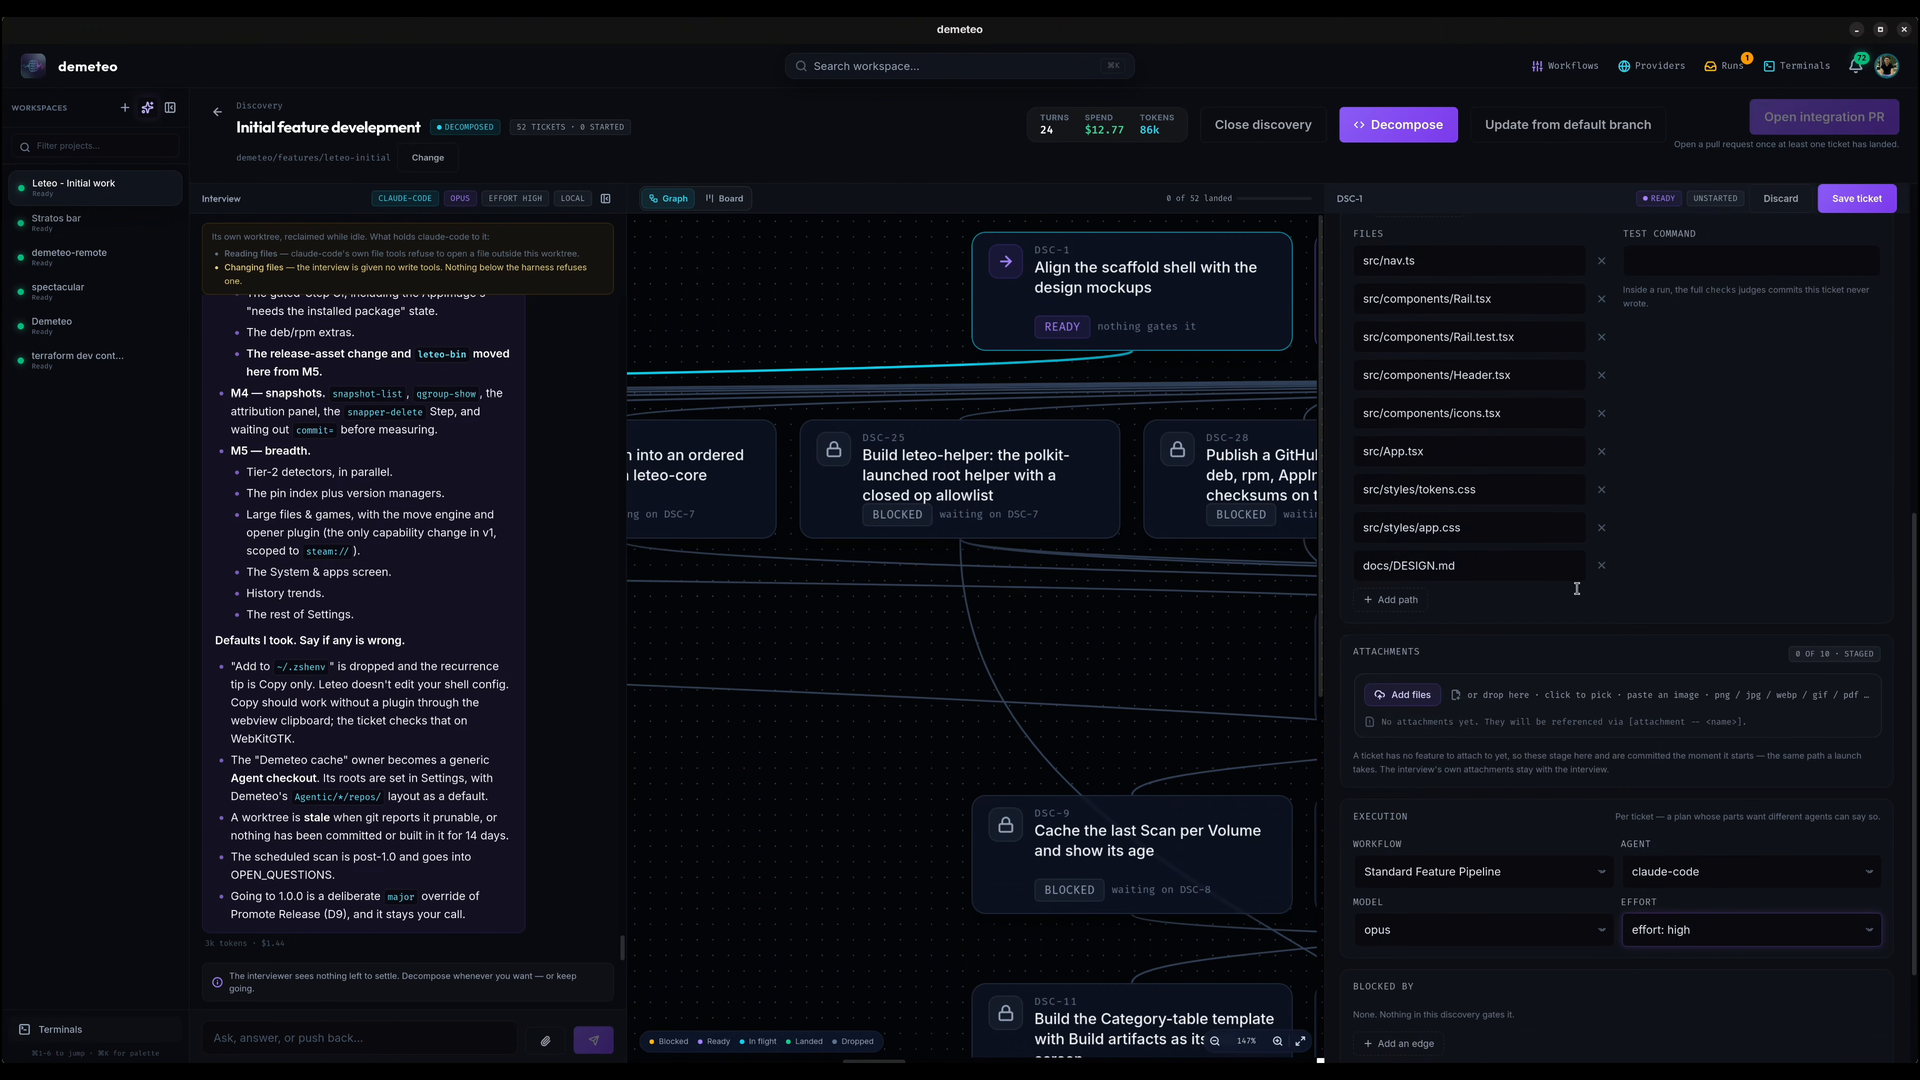
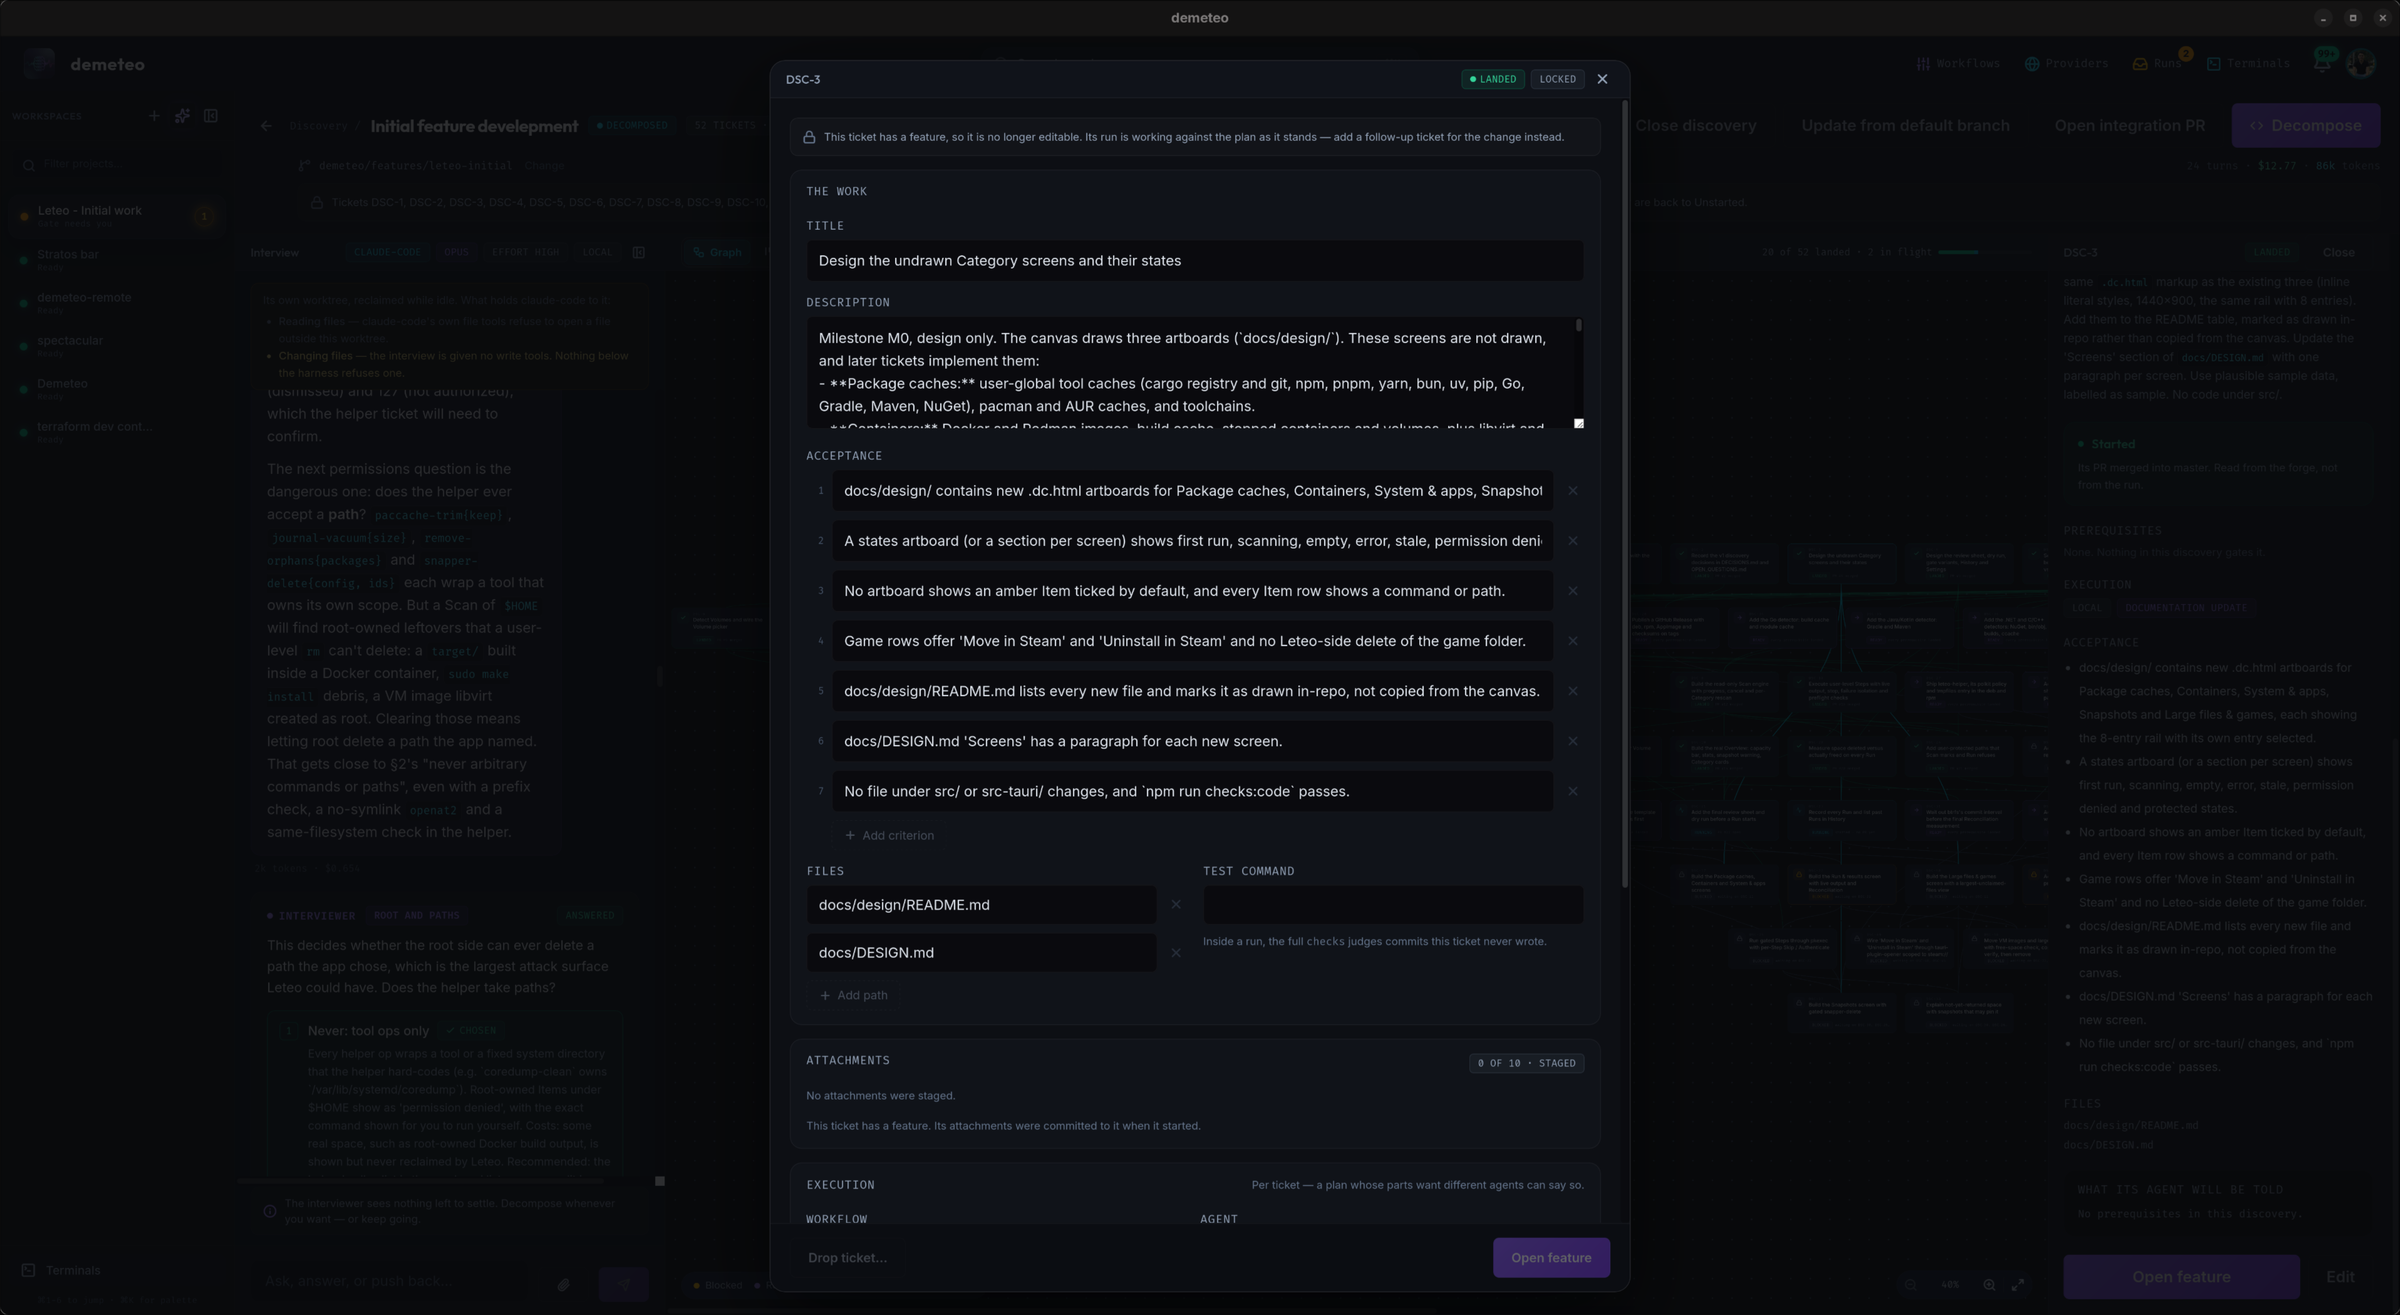
docs: show the ticket editor as the modal it now is
The old frame showed the editor as a side pane, which #218 replaced with
a modal. Use a native capture and describe what a ticket carries and
when it locks, next to the text about editing tickets.

diff --git a/docs-site/journeys/run-a-discovery.md b/docs-site/journeys/run-a-discovery.md
@@ -42,7 +42,7 @@ A Discovery stays open after decomposing. **Decompose again** proposes changes o
 
 ## 4. The ticket graph
 
-![Ticket graph with ready and blocked tickets, and the ticket editor open on a ticket's files, attachments and execution settings](../assets/screenshots/ticket-editor.png)
+![A decomposed Discovery mid-run (20 of 52 landed, 2 in flight), with a ready ticket's detail and its Start ticket button open on the right](../assets/screenshots/discovery-ticket-graph.png)
 
 Tickets appear as a **Graph** (what depends on what) or a **Board** with one lane per state:
 
@@ -58,6 +58,8 @@ A prerequisite counts as satisfied when its feature's PR is **merged or closed**
 
 Select a ticket to inspect it — description, prerequisites, workflow, acceptance criteria, and **what its agent will be told** — and **Edit** it. Until it starts, every field is editable: title, description, acceptance, files, test command, prerequisite edges, attachments for the agent that implements it, and its execution settings (**workflow, agent, model, effort**, and the machine it runs on). A ticket locks once it has a feature.
 
+![Ticket editor modal on a landed ticket, locked because it has a feature: title, description, acceptance criteria, files, test command and attachments](../assets/screenshots/ticket-editor.png)
+
 ## 5. Start ready tickets
 
 **Start ticket** on a ready ticket creates a feature from the ticket's own workflow, agent, model and effort, and runs it like any other pipeline — gates included. Pick any ready tickets and run them side by side; each gets its own branch and worktree. Demeteo shows what is startable but **never starts a ticket on its own**.
@@ -65,8 +67,6 @@ Select a ticket to inspect it — description, prerequisites, workflow, acceptan
 - **Placement**: a ticket runs locally, or *detached* on a machine's `demeteo-runner`. Unless you choose, it inherits from the Discovery's machine.
 - Every started ticket's prompt says, per prerequisite, whether it landed or was dropped, so the agent doesn't build on work that never reached its base.
 - **Force start…** starts a blocked ticket anyway, and **Drop** gives up on one; both ask for a reason that is recorded on the ticket. A dropped ticket releases the tickets that depend on it. In a project with no forge remote, this is how the graph is driven.
-
-![A decomposed Discovery mid-run (20 of 52 landed, 2 in flight), with a ready ticket's detail and its Start ticket button open on the right](../assets/screenshots/discovery-ticket-graph.png)
 
 ## Integration branch and closing
 

diff --git a/README.md b/README.md
@@ -52,10 +52,12 @@ re-planning never renumbers.
 ![Proposed changes: schema-valid ticket list with workflow and prerequisite chips, and an "Apply 52 of 52 changes" button](docs-site/assets/screenshots/discovery-proposed-changes.png)
 
 Each ticket starts only when the ones it depends on have landed, and says what it is
-waiting on. Pick any ready tickets and run them in parallel — each gets its own worktree,
-agent, model and effort.
+waiting on. Until it starts, every ticket is yours to edit — title, description,
+acceptance criteria, file scope, test command, attachments, and its own workflow, agent,
+model and effort. Then pick any ready tickets and run them in parallel, each in its own
+worktree; once a ticket has a feature it locks, and changes go in a follow-up ticket.
 
-![Ticket graph with ready and blocked tickets, and the ticket editor open on its execution settings](docs-site/assets/screenshots/ticket-editor.png)
+![Ticket editor modal on a landed, locked ticket: title, description, acceptance criteria, files, test command and attachments](docs-site/assets/screenshots/ticket-editor.png)
 
 ### 3 · Pipeline — every ticket takes the same path
 
